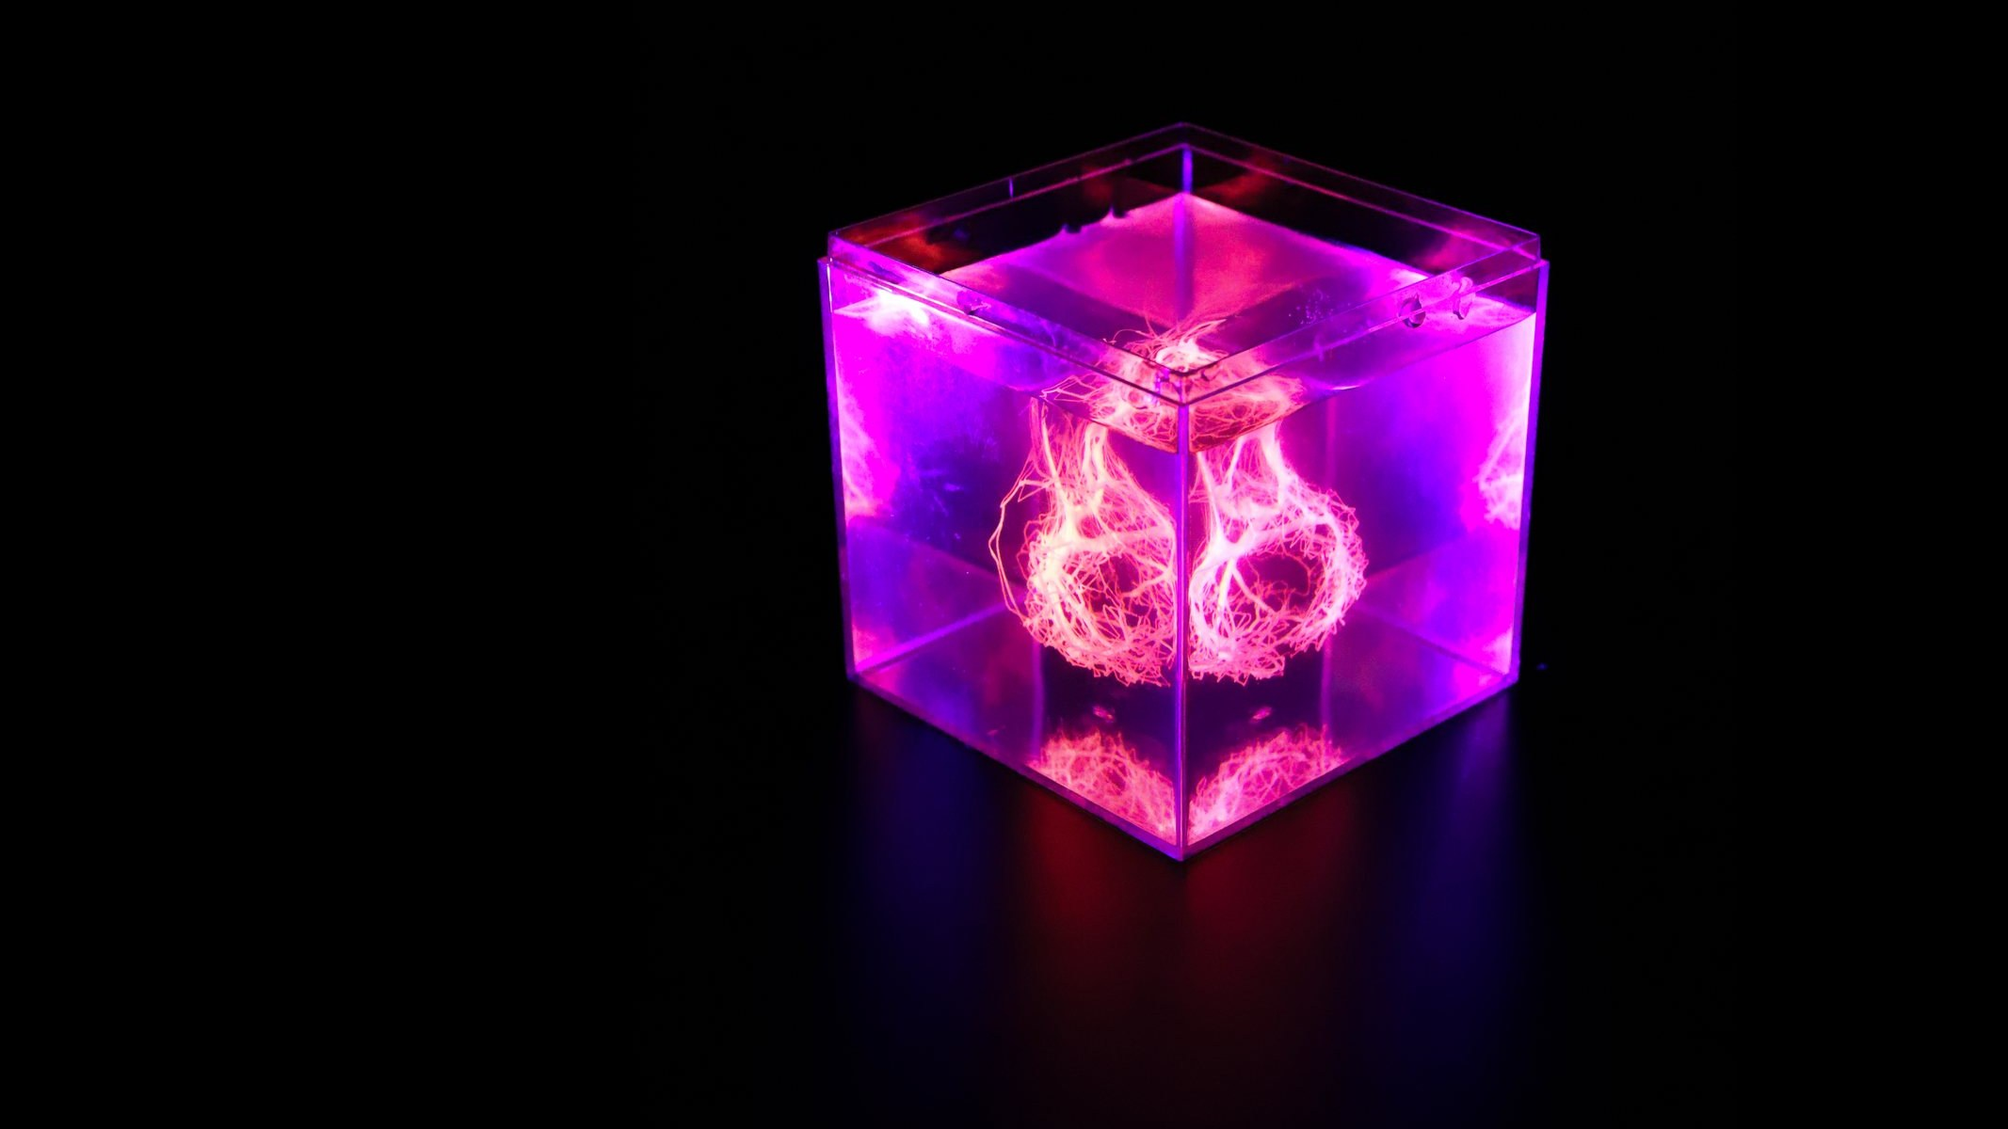
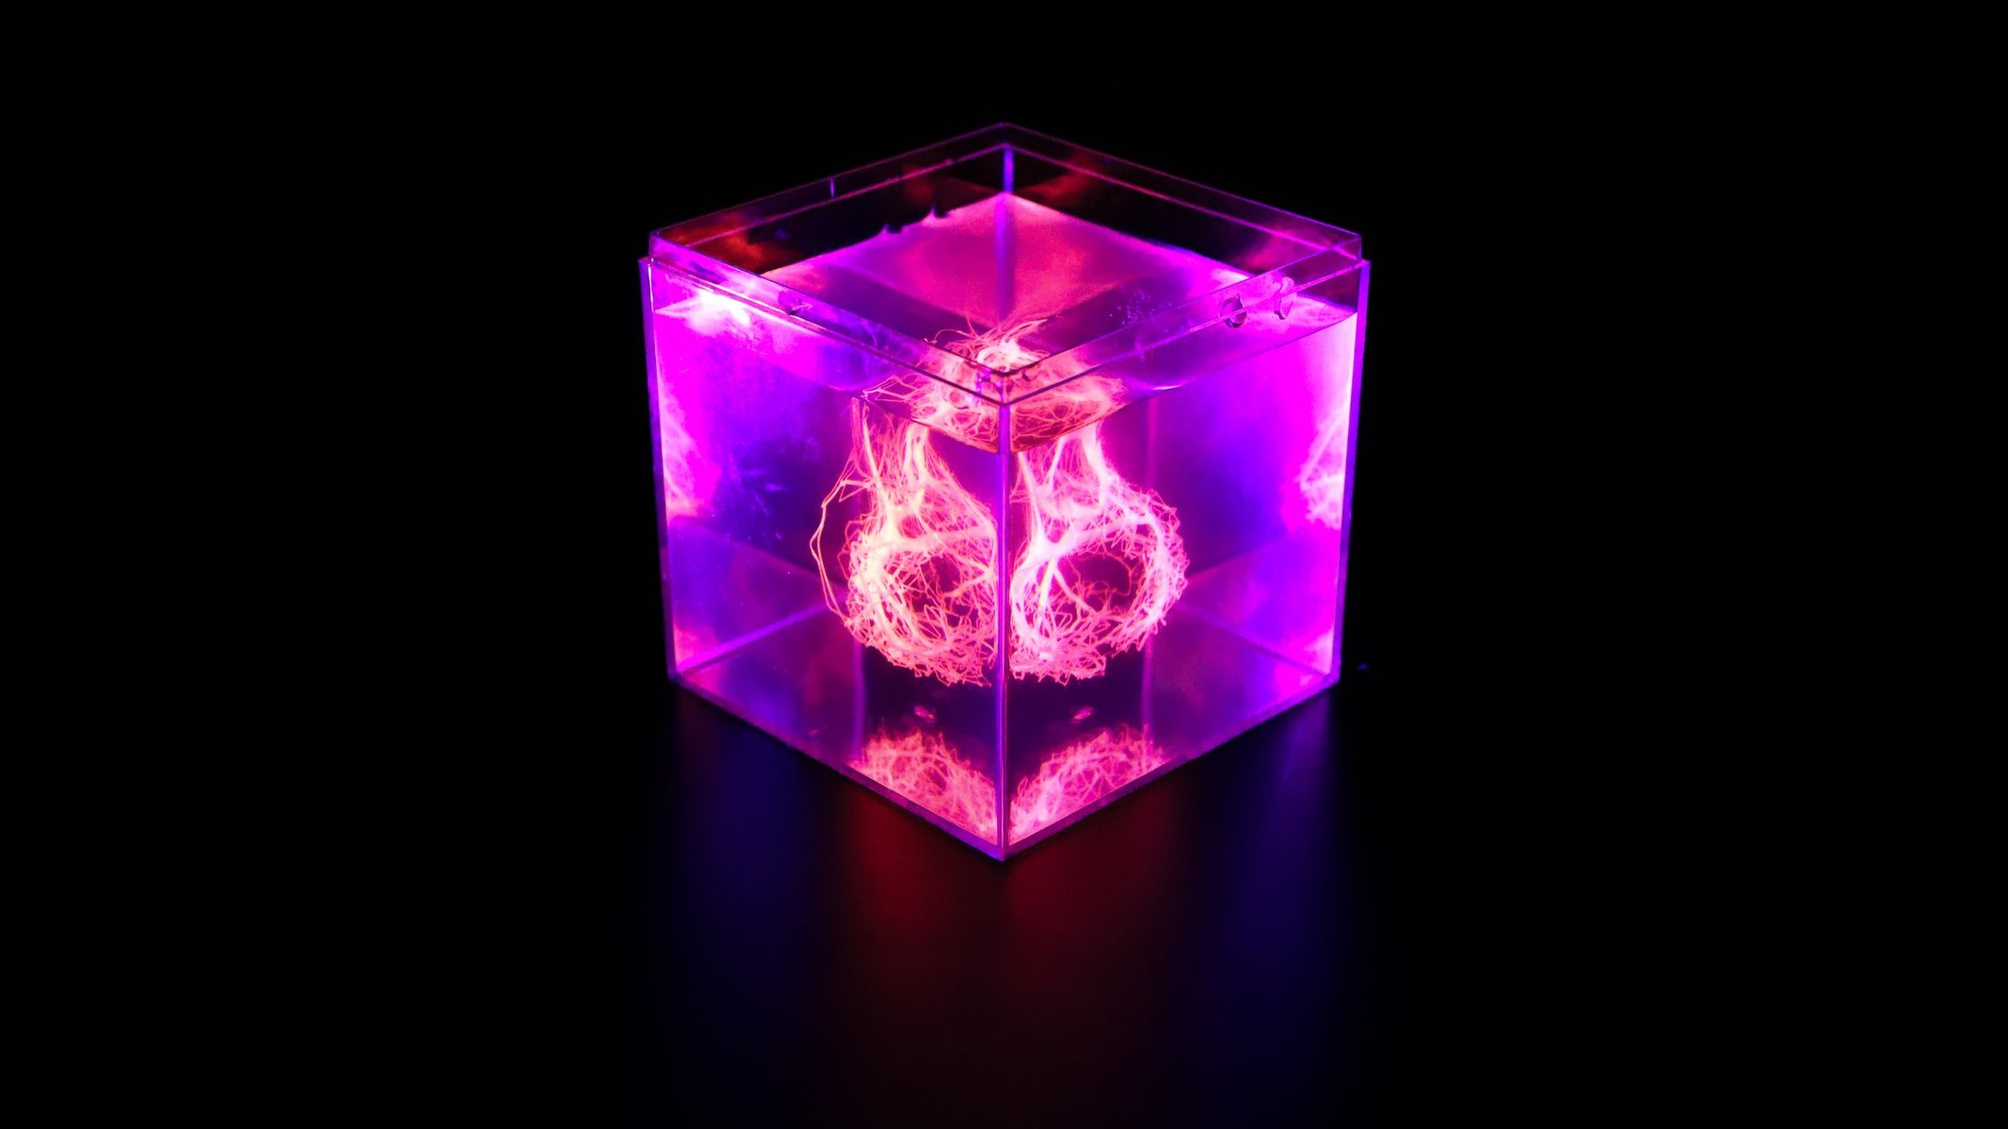
Portfolio: centered cube, two fewer network photos, Miscellaneous in two sets
- Emergent Vessels opener: the magenta cube centered
- Remove the close-up green network and the cube with the syringe above it
- Miscellaneous: Studies and Source images as separate, larger sets

Claude-Session: https://claude.ai/code/session_01GYrbZMDzhii5KbzznF8rbd

Changed region(s): [[0.3094, 0.0925, 0.7736, 0.9558]]

diff --git a/portfolio/index.html b/portfolio/index.html
@@ -338,7 +338,7 @@ audio{width:100%;max-width:28rem;display:block;margin-top:.4rem}
     <p class="explain"><i>Emergent Vessels</i> turns this method toward living organisms, 3D bioprinting self-assembling, living sculptures via novel bioinks of <i>Neurospora crassa</i> fungi and <i>Physarum polycephalum</i> slime mold. Over a few days the organisms colonize the printed form and grow it into capillary-like networks.</p>
     <p class="cite">Based on Sexton, Rütsche et al., “Rapid model-guided design of organ-scale synthetic vasculature for biomanufacturing,” <a href="https://www.science.org/doi/10.1126/science.adj6152" target="_blank" rel="noopener"><i>Science</i> 388, 1198-1204 (2025)</a> (Skylar-Scott and Marsden Labs, Stanford).</p>
   </div>
-  <div class="wrap block"><p class="explain"><i>Physarum</i> reorganizing its veins under the microscope at six times speed, printing fluorescent networks into gel cubes under UV light, the finished networks, a printed network turning in visible light, the installation at Gray Area Festival, San Francisco, 2025, and Printessa, a bioprinter printing live at the festival (photos: Barak Shrama).</p><div class="j" style="--h:15rem"><figure class="plate" data-lb style="--ar:1.4969"><div class="media" data-open><video data-auto poster="media/ev-physarum-network-poster.jpg" width="1440" height="962" muted loop playsinline preload="none" aria-label="Under the microscope, the dark branching veins of a slime mold thin and reorganize."><source src="media/ev-physarum-network.mp4" type="video/mp4"></video></div></figure><figure class="plate" data-lb style="--ar:0.75"><button class="media" type="button" data-open aria-label="Enlarge"><img src="media/ev-printing-green.jpg" width="1125" height="1500" loading="lazy" decoding="async" alt="Under UV light a syringe of glowing green ink prints a network along the floor of a gel-filled tank."></button></figure><figure class="plate" data-lb style="--ar:0.75"><button class="media" type="button" data-open aria-label="Enlarge"><img src="media/ev-cube-printing.jpg" width="1125" height="1500" loading="lazy" decoding="async" alt="A gel cube glowing green under UV light, a dense network inside and the needle above it."></button></figure><figure class="plate" data-lb style="--ar:0.75"><button class="media" type="button" data-open aria-label="Enlarge"><img src="media/ev-network-green.jpg" width="1125" height="1500" loading="lazy" decoding="async" alt="Close up, a tangle of glowing green printed vessels inside a clear cube."></button></figure><figure class="plate" data-lb style="--ar:1.132"><button class="media" type="button" data-open aria-label="Enlarge"><img src="media/ev-network-orange.jpg" width="686" height="606" loading="lazy" decoding="async" alt="A dense orange vessel network in a clear tank under UV light."></button></figure><figure class="plate" data-lb style="--ar:0.73"><button class="media" type="button" data-open aria-label="Enlarge"><img src="media/ev-cube-green.jpg" width="1314" height="1800" loading="lazy" decoding="async" alt="A clear cube glowing green under UV light, a dense network inside."></button></figure><figure class="plate" data-lb style="--ar:1.5004"><button class="media" type="button" data-open aria-label="Enlarge"><img src="media/ev-grayarea-wide.jpg" width="2000" height="1333" loading="lazy" decoding="async" alt="A dark gallery, visitors around white plinths holding small cubes before a large projection."></button></figure><figure class="plate" data-lb style="--ar:0.5625"><div class="media" data-open><video data-auto poster="media/ev-network-turn-poster.jpg" width="720" height="1280" muted loop playsinline preload="none" aria-label="A block holding a magenta network is turned in normal light, showing its depth."><source src="media/ev-network-turn.mp4" type="video/mp4"></video></div></figure><figure class="plate" data-lb style="--ar:1.5"><button class="media" type="button" data-open aria-label="Enlarge"><img src="media/ev-printessa.jpg" width="1800" height="1200" loading="lazy" decoding="async" alt="A compact black A-frame bioprinter on a white plinth, printing into a small cube."></button></figure></div></div>
+  <div class="wrap block"><p class="explain"><i>Physarum</i> reorganizing its veins under the microscope at six times speed, printing fluorescent networks into gel cubes under UV light, the finished networks, a printed network turning in visible light, the installation at Gray Area Festival, San Francisco, 2025, and Printessa, a bioprinter printing live at the festival (photos: Barak Shrama).</p><div class="j" style="--h:15rem"><figure class="plate" data-lb style="--ar:1.4969"><div class="media" data-open><video data-auto poster="media/ev-physarum-network-poster.jpg" width="1440" height="962" muted loop playsinline preload="none" aria-label="Under the microscope, the dark branching veins of a slime mold thin and reorganize."><source src="media/ev-physarum-network.mp4" type="video/mp4"></video></div></figure><figure class="plate" data-lb style="--ar:0.75"><button class="media" type="button" data-open aria-label="Enlarge"><img src="media/ev-printing-green.jpg" width="1125" height="1500" loading="lazy" decoding="async" alt="Under UV light a syringe of glowing green ink prints a network along the floor of a gel-filled tank."></button></figure><figure class="plate" data-lb style="--ar:1.132"><button class="media" type="button" data-open aria-label="Enlarge"><img src="media/ev-network-orange.jpg" width="686" height="606" loading="lazy" decoding="async" alt="A dense orange vessel network in a clear tank under UV light."></button></figure><figure class="plate" data-lb style="--ar:0.73"><button class="media" type="button" data-open aria-label="Enlarge"><img src="media/ev-cube-green.jpg" width="1314" height="1800" loading="lazy" decoding="async" alt="A clear cube glowing green under UV light, a dense network inside."></button></figure><figure class="plate" data-lb style="--ar:1.5004"><button class="media" type="button" data-open aria-label="Enlarge"><img src="media/ev-grayarea-wide.jpg" width="2000" height="1333" loading="lazy" decoding="async" alt="A dark gallery, visitors around white plinths holding small cubes before a large projection."></button></figure><figure class="plate" data-lb style="--ar:0.5625"><div class="media" data-open><video data-auto poster="media/ev-network-turn-poster.jpg" width="720" height="1280" muted loop playsinline preload="none" aria-label="A block holding a magenta network is turned in normal light, showing its depth."><source src="media/ev-network-turn.mp4" type="video/mp4"></video></div></figure><figure class="plate" data-lb style="--ar:1.5"><button class="media" type="button" data-open aria-label="Enlarge"><img src="media/ev-printessa.jpg" width="1800" height="1200" loading="lazy" decoding="async" alt="A compact black A-frame bioprinter on a white plinth, printing into a small cube."></button></figure></div></div>
   <div class="wrap block"><div class="block-head"><h3 class="t2">Virtual vessels</h3></div><p class="explain">The vessel networks are first designed in software, where svVascularize (Sexton et al.) grows branching vascular trees to fill a shape and simulates blood flow through them, shaded here by pressure. It runs about 230 times faster than earlier methods and can design whole organs with a million vessels. Each design is then printed into a support bath, shown here in front and side views at 900× speed, where the printed structures self-assemble into vascular networks.</p><div class="j" style="--h:15rem"><figure class="plate" data-lb style="--ar:1.7778"><div class="media" data-open><video data-auto poster="media/ev-sexton-flow-poster.jpg" width="1920" height="1080" muted loop playsinline preload="none" aria-label="Four renderings of computer-generated vascular trees shaded by pressure, beside a graph of pulsing inflow."><source src="media/ev-sexton-flow.mp4" type="video/mp4"></video></div><figcaption class="sr">From Sexton, Rütsche et al., <i>Science</i> 388, 1198-1204 (2025).</figcaption></figure><figure class="plate" data-lb style="--ar:1.7778"><div class="media" data-open><video data-auto poster="media/ev-printing-poster.jpg" width="640" height="360" muted loop playsinline preload="none" aria-label="Time-lapse, front and side views: a nozzle prints a red vascular network into a clear support bath."><source src="media/ev-printing.mp4" type="video/mp4"></video></div><figcaption class="sr">From Sexton, Rütsche et al., <i>Science</i> 388, 1198-1204 (2025).</figcaption></figure><figure class="plate" data-lb style="--ar:1.6842"><button class="media" type="button" data-open aria-label="Enlarge"><img src="media/ev-sexton-fresh.jpg" width="960" height="570" loading="lazy" decoding="async" alt="A grid of red vascular networks that self-assembled from printed ellipsoid, ring and box shapes."></button><figcaption class="sr">From Sexton, Rütsche et al., <i>Science</i> 388, 1198-1204 (2025).</figcaption></figure></div><p class="cite">All three from Sexton, Rütsche et al., <i>Science</i> 388, 1198-1204 (2025).</p></div>
   </div>
 
@@ -384,7 +384,10 @@ audio{width:100%;max-width:28rem;display:block;margin-top:.4rem}
   <h2 class="t2" id="h-ex">Miscellaneous</h2>
   <p class="explain">Soft robotics / opto-, sono- &amp; thermogenetics, steering living cells with light, ultrasound and heat / new kinds of structural color from beetle and spotted lanternfly wings / alien fossils.</p>
   <p class="explain">Miscellaneous studies, materials and source images toward new work, much of which lives within a feedback loop of deconstructing and reconfiguring mediums. Also here, a research visit to Columbia University to see the first transgenic cuttlefish, dwarf cuttlefish engineered to glow red under fluorescent light.</p>
-  <div class="j" style="--h:7.5rem"><figure class="plate" data-lb style="--ar:0.75"><button class="media" type="button" data-open aria-label="Enlarge"><img src="media/next-soft-actuator.jpg" width="426" height="568" loading="lazy" decoding="async" alt="Hands inflate a blue star-shaped soft actuator through tubing."></button><figcaption class="sr">Inflating a star-shaped soft actuator.</figcaption></figure><figure class="plate" data-lb style="--ar:1.1264"><button class="media" type="button" data-open aria-label="Enlarge"><img src="media/next-lanternfly.jpg" width="392" height="348" loading="lazy" decoding="async" alt="Spotted lanternfly wings set into a white cast form."></button><figcaption class="sr">Spotted lanternfly wings set into a cast form.</figcaption></figure><figure class="plate" data-lb style="--ar:0.75"><button class="media" type="button" data-open aria-label="Enlarge"><img src="media/next-lanternfly-ref.jpg" width="1050" height="1400" loading="lazy" decoding="async" alt="A spotted lanternfly resting on concrete."></button><figcaption class="sr">A spotted lanternfly (<i>Lycorma delicatula</i>), used as a reference.</figcaption></figure><figure class="plate" data-lb style="--ar:1.4895"><button class="media" type="button" data-open aria-label="Enlarge"><img src="media/next-beetle-wings.jpg" width="1138" height="764" loading="lazy" decoding="async" alt="A pile of iridescent green beetle wing cases."></button><figcaption class="sr">Jewel beetle wing cases (<i>Sternocera aequisignata</i>), used as a reference, whose green is structural color from multilayer reflectors in the cuticle (Seago et al., <i>J. R. Soc. Interface</i>, 2009).</figcaption></figure><figure class="plate" data-lb style="--ar:1.3333"><button class="media" type="button" data-open aria-label="Enlarge"><img src="media/next-beetles.jpg" width="520" height="390" loading="lazy" decoding="async" alt="Iridescent green beetles on a translucent yellow form in sunlight."></button><figcaption class="sr">Iridescent green fruit beetles, used as a reference.</figcaption></figure><figure class="plate" data-lb style="--ar:1.0028"><button class="media" type="button" data-open aria-label="Enlarge"><img src="media/next-vertebrae.jpg" width="710" height="708" loading="lazy" decoding="async" alt="White vertebra-like forms laid in a spiral on moss."></button><figcaption class="sr">Vertebrae laid in a spiral on moss.</figcaption></figure><figure class="plate" data-lb style="--ar:0.75"><button class="media" type="button" data-open aria-label="Enlarge"><img src="media/next-fossil-forms.jpg" width="1050" height="1400" loading="lazy" decoding="async" alt="Grey spiny fossil-like forms and a shell on canvas."></button><figcaption class="sr">Fossil-like forms.</figcaption></figure><figure class="plate" data-lb style="--ar:0.8303"><button class="media" type="button" data-open aria-label="Enlarge"><img src="media/next-casts.jpg" width="832" height="1002" loading="lazy" decoding="async" alt="Silver and olive metal casts of spiny forms."></button><figcaption class="sr">Metal casts of spiny, fossil-like forms.</figcaption></figure><figure class="plate" data-lb style="--ar:0.8613"><button class="media" type="button" data-open aria-label="Enlarge"><img src="media/next-black-spiral.jpg" width="118" height="137" loading="lazy" decoding="async" alt="A hand holds a black stacked spiral form."></button><figcaption class="sr">A stacked black spiral form.</figcaption></figure><figure class="plate" data-lb style="--ar:1.8889"><button class="media" type="button" data-open aria-label="Enlarge"><img src="media/next-shell-renders.jpg" width="1360" height="720" loading="lazy" decoding="async" alt="Shell reference photos above four 3D renders of spiral shells."></button><figcaption class="sr">3D shell forms (below) modeled from reference photographs (above).</figcaption></figure><figure class="plate" data-lb style="--ar:0.5625"><div class="media" data-open><video data-auto poster="media/re-columbia-tank-poster.jpg" width="720" height="1280" muted loop playsinline preload="none" aria-label="Mottled dwarf cuttlefish hover among plants in a lab aquarium."><source src="media/re-columbia-tank.mp4" type="video/mp4"></video></div><figcaption class="sr">Transgenic dwarf cuttlefish at Columbia University, engineered to glow red under fluorescent light, seen on a research visit.</figcaption></figure><figure class="plate" data-lb style="--ar:0.5625"><div class="media" data-open><video data-auto poster="media/re-columbia-tank-b-poster.jpg" width="720" height="1280" muted loop playsinline preload="none" aria-label="Dwarf cuttlefish drift among plants and a green plastic chain in another tank at Columbia."><source src="media/re-columbia-tank-b.mp4" type="video/mp4"></video></div><figcaption class="sr">Another tank of the dwarf cuttlefish at Columbia University.</figcaption></figure></div>
+  <div class="block-head"><h3 class="t3">Studies</h3></div>
+  <div class="j" style="--h:10.5rem"><figure class="plate" data-lb style="--ar:0.75"><button class="media" type="button" data-open aria-label="Enlarge"><img src="media/next-soft-actuator.jpg" width="426" height="568" loading="lazy" decoding="async" alt="Hands inflate a blue star-shaped soft actuator through tubing."></button><figcaption class="sr">Inflating a star-shaped soft actuator.</figcaption></figure><figure class="plate" data-lb style="--ar:1.1264"><button class="media" type="button" data-open aria-label="Enlarge"><img src="media/next-lanternfly.jpg" width="392" height="348" loading="lazy" decoding="async" alt="Spotted lanternfly wings set into a white cast form."></button><figcaption class="sr">Spotted lanternfly wings set into a cast form.</figcaption></figure><figure class="plate" data-lb style="--ar:0.75"><button class="media" type="button" data-open aria-label="Enlarge"><img src="media/next-fossil-forms.jpg" width="1050" height="1400" loading="lazy" decoding="async" alt="Grey spiny fossil-like forms and a shell on canvas."></button><figcaption class="sr">Fossil-like forms.</figcaption></figure><figure class="plate" data-lb style="--ar:0.8303"><button class="media" type="button" data-open aria-label="Enlarge"><img src="media/next-casts.jpg" width="832" height="1002" loading="lazy" decoding="async" alt="Silver and olive metal casts of spiny forms."></button><figcaption class="sr">Metal casts of spiny, fossil-like forms.</figcaption></figure><figure class="plate" data-lb style="--ar:1.8889"><button class="media" type="button" data-open aria-label="Enlarge"><img src="media/next-shell-renders.jpg" width="1360" height="720" loading="lazy" decoding="async" alt="Shell reference photos above four 3D renders of spiral shells."></button><figcaption class="sr">3D shell forms (below) modeled from reference photographs (above).</figcaption></figure><figure class="plate" data-lb style="--ar:0.5625"><div class="media" data-open><video data-auto poster="media/re-columbia-tank-poster.jpg" width="720" height="1280" muted loop playsinline preload="none" aria-label="Mottled dwarf cuttlefish hover among plants in a lab aquarium."><source src="media/re-columbia-tank.mp4" type="video/mp4"></video></div><figcaption class="sr">Transgenic dwarf cuttlefish at Columbia University, engineered to glow red under fluorescent light, seen on a research visit.</figcaption></figure><figure class="plate" data-lb style="--ar:0.5625"><div class="media" data-open><video data-auto poster="media/re-columbia-tank-b-poster.jpg" width="720" height="1280" muted loop playsinline preload="none" aria-label="Dwarf cuttlefish drift among plants and a green plastic chain in another tank at Columbia."><source src="media/re-columbia-tank-b.mp4" type="video/mp4"></video></div><figcaption class="sr">Another tank of the dwarf cuttlefish at Columbia University.</figcaption></figure></div>
+  <div class="block-head" style="margin-top:2.6rem"><h3 class="t3">Source images</h3></div>
+  <div class="j" style="--h:10.5rem"><figure class="plate" data-lb style="--ar:0.75"><button class="media" type="button" data-open aria-label="Enlarge"><img src="media/next-lanternfly-ref.jpg" width="1050" height="1400" loading="lazy" decoding="async" alt="A spotted lanternfly resting on concrete."></button><figcaption class="sr">A spotted lanternfly (<i>Lycorma delicatula</i>), used as a reference.</figcaption></figure><figure class="plate" data-lb style="--ar:1.4895"><button class="media" type="button" data-open aria-label="Enlarge"><img src="media/next-beetle-wings.jpg" width="1138" height="764" loading="lazy" decoding="async" alt="A pile of iridescent green beetle wing cases."></button><figcaption class="sr">Jewel beetle wing cases (<i>Sternocera aequisignata</i>), used as a reference, whose green is structural color from multilayer reflectors in the cuticle (Seago et al., <i>J. R. Soc. Interface</i>, 2009).</figcaption></figure><figure class="plate" data-lb style="--ar:1.3333"><button class="media" type="button" data-open aria-label="Enlarge"><img src="media/next-beetles.jpg" width="520" height="390" loading="lazy" decoding="async" alt="Iridescent green beetles on a translucent yellow form in sunlight."></button><figcaption class="sr">Iridescent green fruit beetles, used as a reference.</figcaption></figure><figure class="plate" data-lb style="--ar:1.0028"><button class="media" type="button" data-open aria-label="Enlarge"><img src="media/next-vertebrae.jpg" width="710" height="708" loading="lazy" decoding="async" alt="White vertebra-like forms laid in a spiral on moss."></button><figcaption class="sr">Vertebrae laid in a spiral on moss.</figcaption></figure><figure class="plate" data-lb style="--ar:0.8613"><button class="media" type="button" data-open aria-label="Enlarge"><img src="media/next-black-spiral.jpg" width="118" height="137" loading="lazy" decoding="async" alt="A hand holds a black stacked spiral form."></button><figcaption class="sr">A stacked black spiral form.</figcaption></figure></div>
   <p class="cite">The green of the jewel beetle wing cases is structural color from multilayer reflectors in the cuticle (Seago et al., “Gold bugs and beyond: a review of iridescence and structural colour mechanisms in beetles (Coleoptera),” <a href="https://doi.org/10.1098/rsif.2008.0354.focus" target="_blank" rel="noopener"><i>J. R. Soc. Interface</i> 6, S165-S184 (2009)</a>). Open any image for its caption.</p>
 </section>
 
